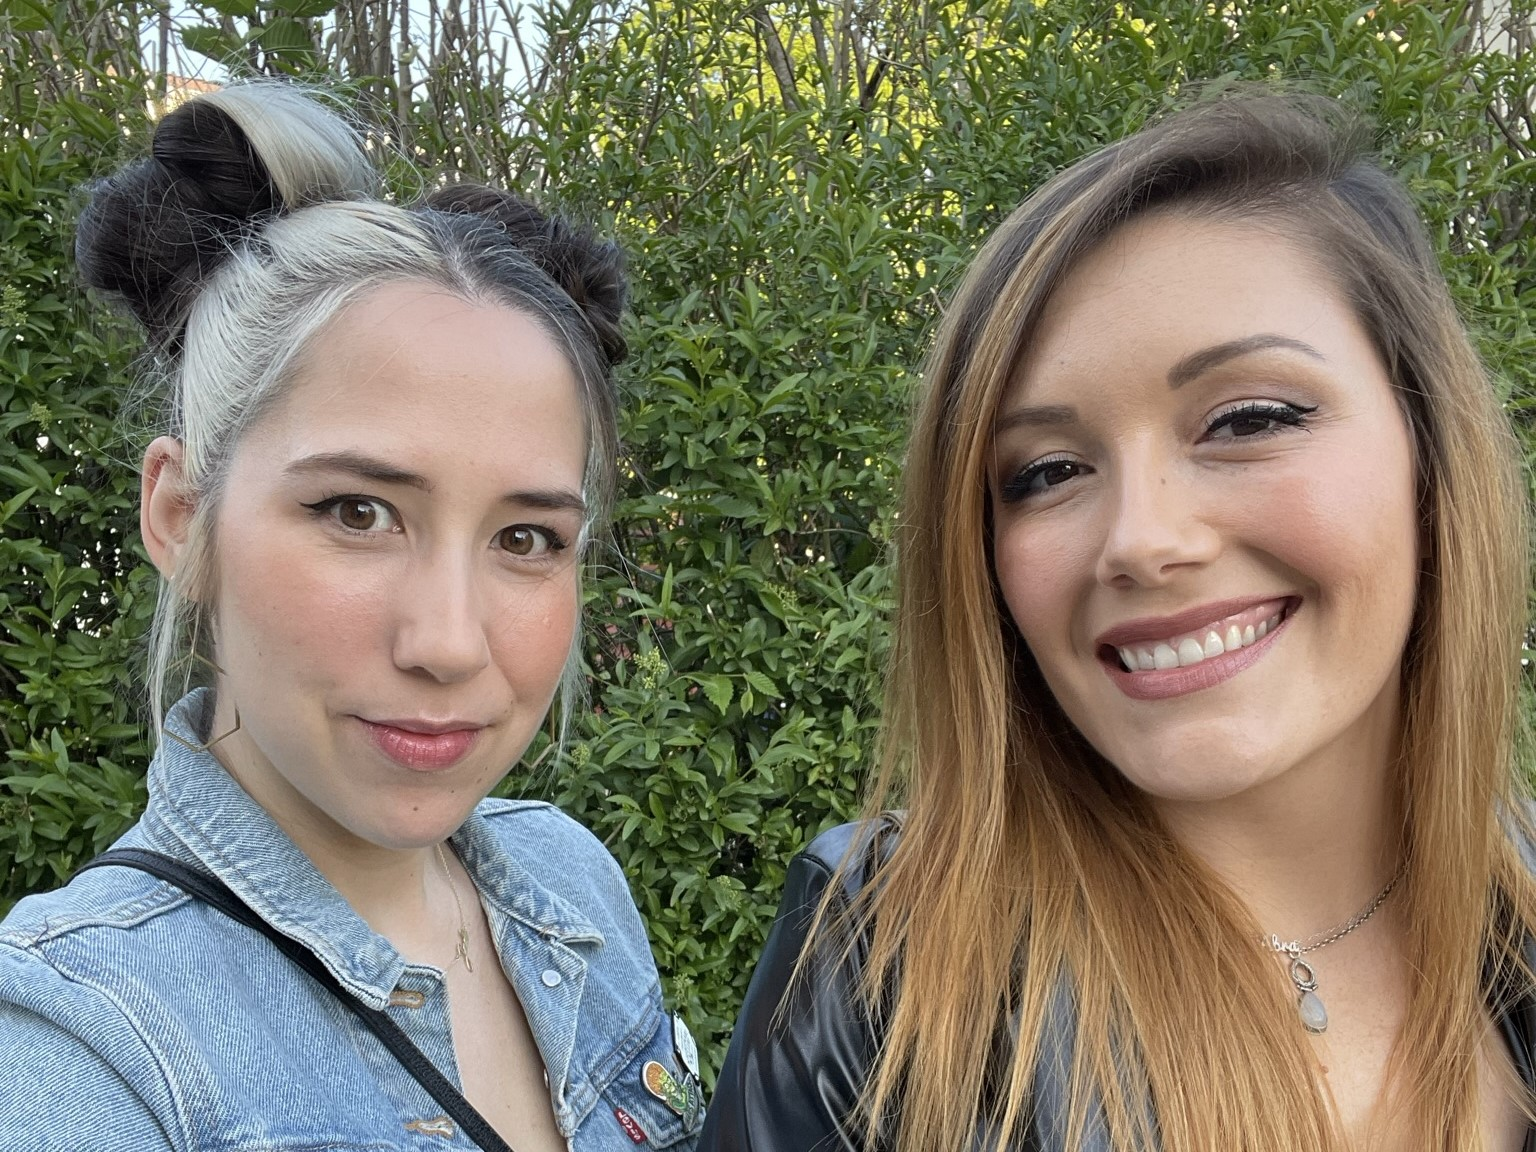
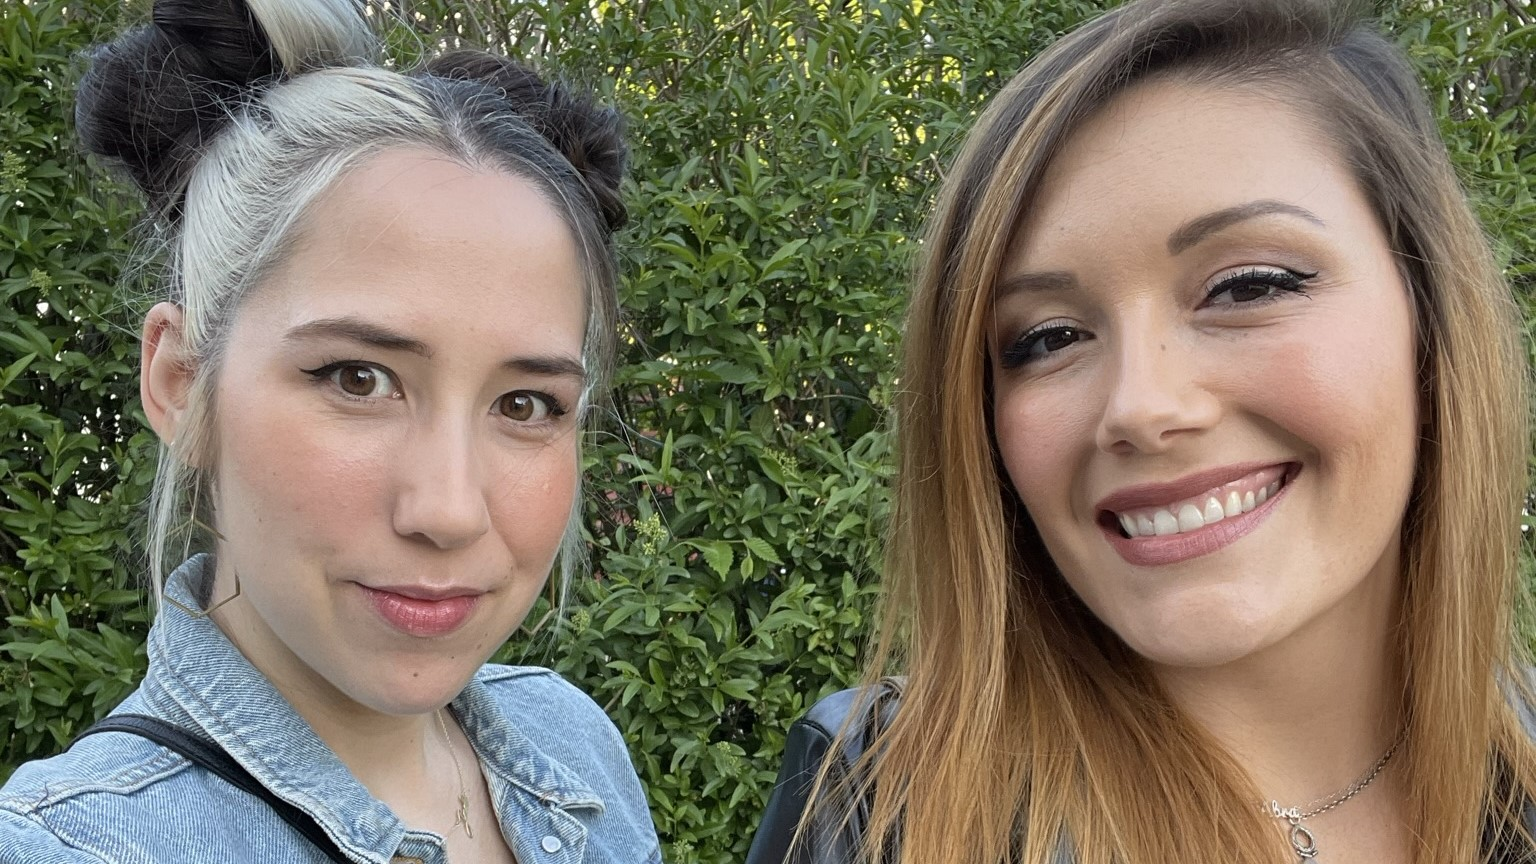
updated orientation of photos

diff --git a/public/assets/css/main.css b/public/assets/css/main.css
@@ -3895,12 +3895,12 @@ input, select, textarea {
 		}
 
 		#homeCaro {
-			height: 500px;
+			height: 600px;
 			width: 75%;
 		}
 
 		.slideshow {
-			height: 550px; 
+			height: 600px; 
 		}
 
 		.slide {
@@ -3923,15 +3923,15 @@ input, select, textarea {
 		}
 
 		#homeCaro {
-			height: 475px
+			height: 600px
 		}
 
 		.slideshow {
-			height: 475px; 
+			height: 600px; 
 		}
 
 		.slide {
-			height: 475px;
+			height: 600px;
 		}
 
 		.slide img {
@@ -3943,15 +3943,15 @@ input, select, textarea {
 
 	@media screen and (min-width: 1281px) and (max-width: 1679px){
 		#homeCaro {
-			height: 400px;
+			height: 500px;
 		}
 
 		.slideshow {
-			height: 400px; 
+			height: 500px; 
 		}
 
 		.slide {
-			height: 450px;
+			height: 500px;
 		}
 
 		.slide img {
